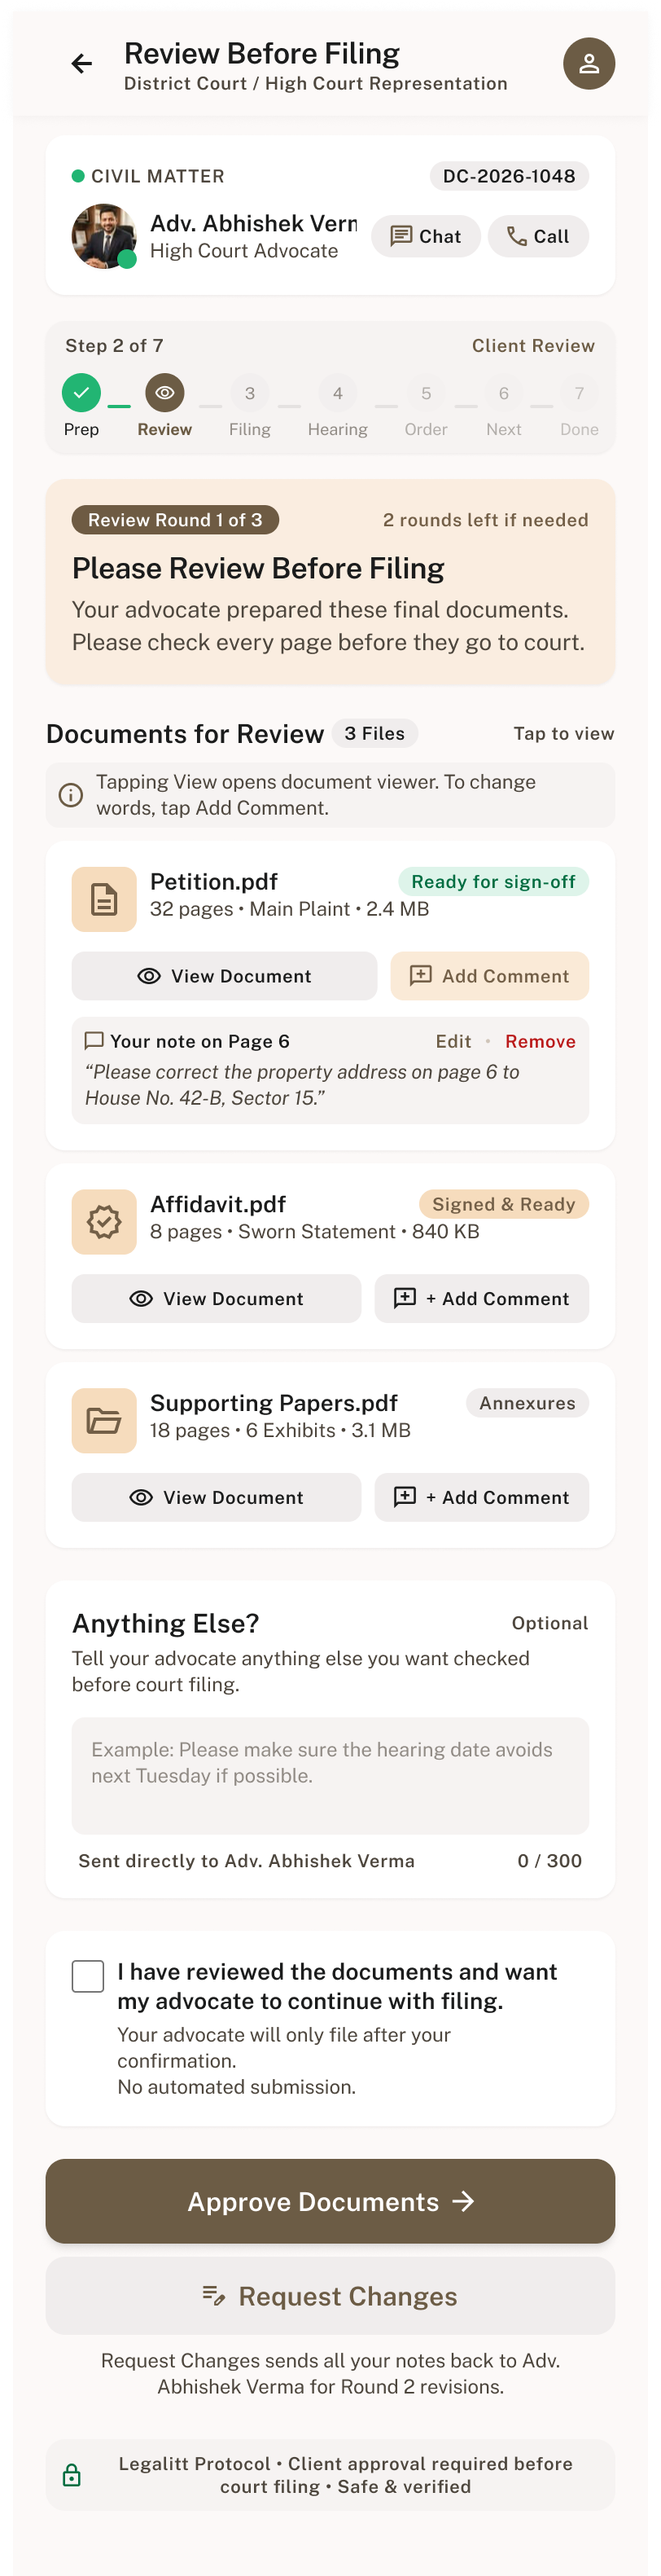
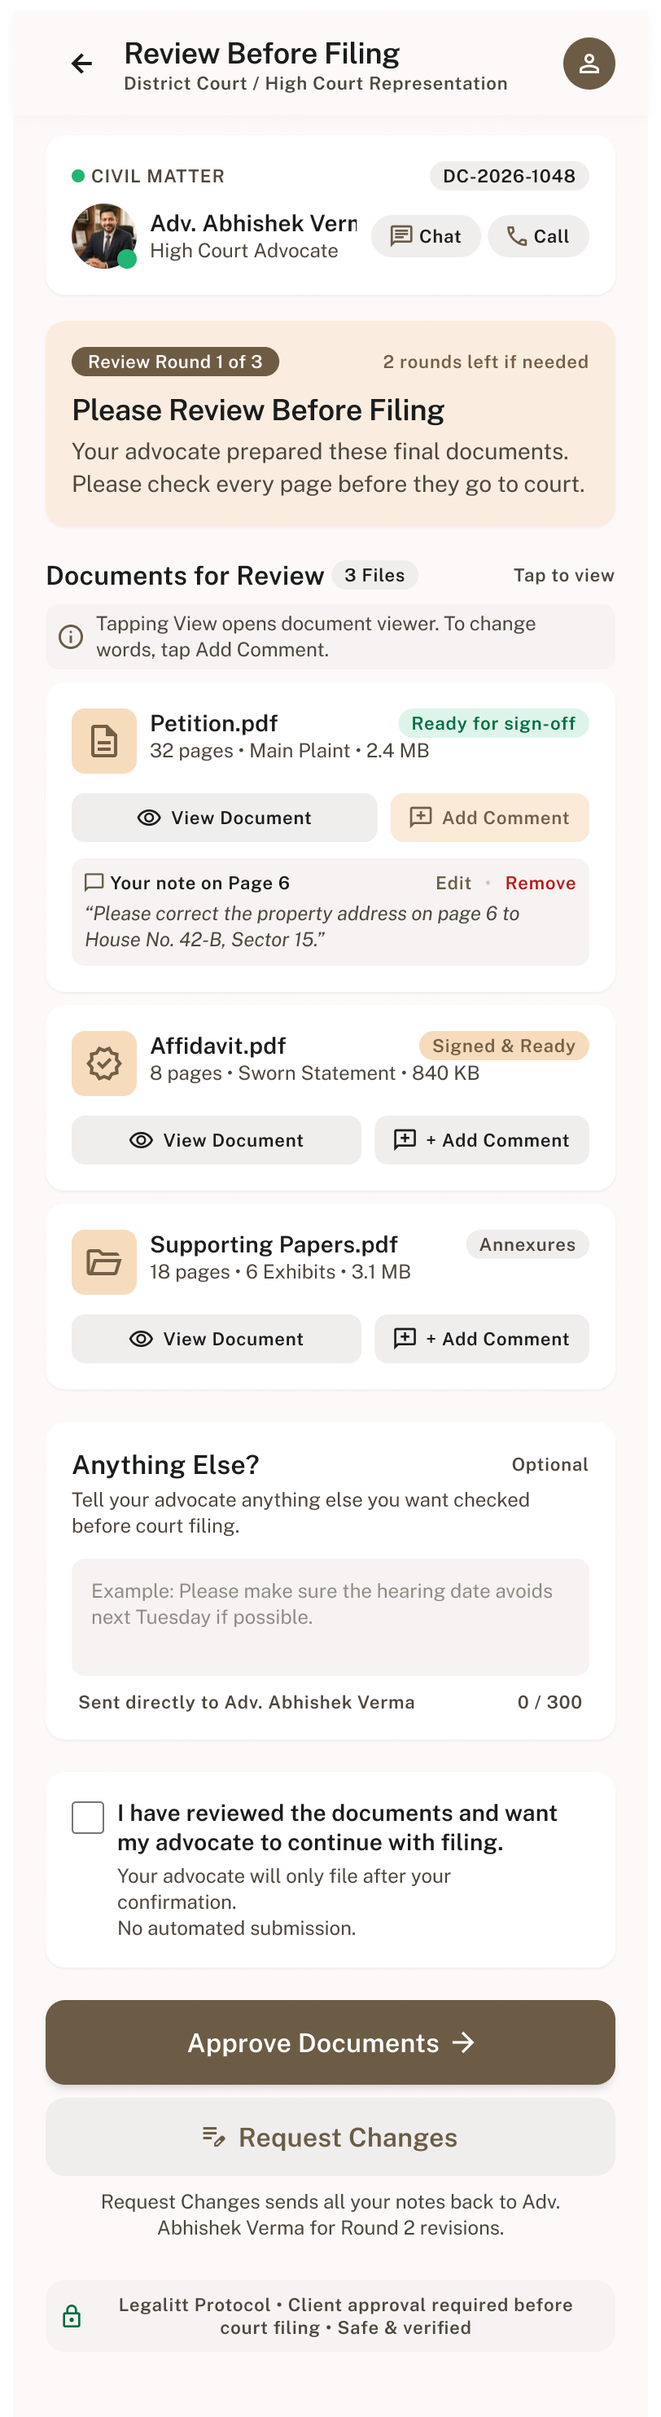
review before filing: replacement design/318 (stepper removed)
Replaces design/318; the old export moves to
design/archive/318-hcr-review-before-filing.png.

The replacement drops the "Step 2 of 7" stepper card and is otherwise
identical (pixel diff confirmed). Removed the stepper markup and styles,
its data fields (stepHead, stepMeta, steps) and its tokens. roundTop is
re-measured from the advocate card: 16pt. HC_REVIEW's conflict-6 note
now records that "Step 2 of 7" is gone.

Every OCR-matched line is within 7pt of the replacement export.
Route pixel diff, before → after: 33.6%, because everything below the
removed card moves up. Sweeps clean at 360/390/412.

diff --git a/app/services/high-court/review-filing.tsx b/app/services/high-court/review-filing.tsx
@@ -14,7 +14,7 @@ import {
   PenLine,
   Phone,
 } from 'lucide-react-native';
-import { Fragment, useState } from 'react';
+import { useState } from 'react';
 import { Pressable, ScrollView, StyleSheet, Text, TextInput, View } from 'react-native';
 import { useSafeAreaInsets } from 'react-native-safe-area-context';
 
@@ -98,32 +98,7 @@ export default function HighCourtReviewFilingScreen() {
           </View>
         </View>
 
-        <View style={styles.stepper}>
-          <View style={styles.between}>
-            <Text style={styles.stepHead}>{d.stepHead}</Text>
-            <Text style={[styles.stepHead, styles.stepMeta]}>{d.stepMeta}</Text>
-          </View>
-          <View style={styles.steps}>
-            {d.steps.map((label, i) => (
-              <Fragment key={label}>
-                {i > 0 && <View style={[styles.conn, i === 1 && styles.connDone]} />}
-                <View style={styles.stepItem}>
-                  <View style={[styles.stepDisc, i === 0 && styles.discDone, i === 1 && styles.discActive, i > 1 && styles.discWait]}>
-                    {i === 0 ? (
-                      <Check size={t.stepGlyph} color={ink.onBrand} strokeWidth={3} />
-                    ) : i === 1 ? (
-                      <Eye size={t.stepGlyph} color={ink.onBrand} strokeWidth={2.2} />
-                    ) : (
-                      <Text style={styles.stepNum}>{i + 1}</Text>
-                    )}
-                  </View>
-                  <Text style={[styles.stepLabel, i === 1 && styles.stepLabelActive, i > 1 && styles.stepLabelWait]}>{label}</Text>
-                </View>
-              </Fragment>
-            ))}
-          </View>
-        </View>
-
+        {/* The replacement design/318 drops the "Step 2 of 7" stepper card. */}
         <View style={styles.round}>
           <View style={styles.between}>
             <View style={styles.roundPill}>
@@ -332,36 +307,6 @@ const styles = StyleSheet.create({
     gap: t.pillGap - 1,
   },
   pillText: { fontFamily: font.appSemi, fontSize: t.pillSize, color: c.ink },
-
-  stepper: {
-    marginTop: t.stepTop,
-    marginLeft: t.cardLeft - t.padX,
-    borderRadius: t.cardRadius,
-    backgroundColor: c.panel,
-    paddingHorizontal: t.stepPadX,
-    paddingTop: t.stepPadTop,
-    paddingBottom: t.stepPadBottom,
-  },
-  stepHead: { fontFamily: font.appSemi, fontSize: t.stepHeadSize, lineHeight: t.stepHeadLineHeight, color: c.inkWarm },
-  stepMeta: { color: c.brownLift },
-  steps: { marginTop: t.stepsTop, flexDirection: 'row', alignItems: 'flex-start' },
-  stepItem: { alignItems: 'center' },
-  stepDisc: { width: t.stepDisc, height: t.stepDisc, borderRadius: t.stepDisc / 2, alignItems: 'center', justifyContent: 'center' },
-  discDone: { backgroundColor: status.active },
-  discActive: { backgroundColor: c.brown },
-  discWait: { backgroundColor: c.tileGrey },
-  stepNum: { fontFamily: font.appSemi, fontSize: t.stepNumSize, color: c.inkMuted },
-  conn: {
-    flex: 1,
-    height: t.stepConn,
-    marginTop: t.stepDisc / 2 - t.stepConn / 2,
-    marginHorizontal: t.stepConnGap,
-    backgroundColor: c.radioGrey,
-  },
-  connDone: { backgroundColor: status.active },
-  stepLabel: { marginTop: t.stepLabelTop, fontFamily: font.appBody, fontSize: t.stepLabelSize, lineHeight: t.stepLabelLineHeight, color: c.ink },
-  stepLabelActive: { fontFamily: font.appSemi, color: c.brownInk },
-  stepLabelWait: { color: c.inkMuted },
 
   round: {
     marginTop: t.roundTop,

diff --git a/data/highCourt.ts b/data/highCourt.ts
@@ -830,8 +830,8 @@ export const HC_DELIVERED = {
  * ⚠ CROSS-SERVICE: reached from the DISTRICT COURT court-fee payment (317), it
  * is subtitled "District Court / High Court Representation" — both services at
  * once — and carries DC-2026-1048 (CONFLICT 5) on a High Court screen.
- * ⚠ CONFLICT 6: "Step 2 of 7" (Prep → Done), alongside 313's "STAGE 2 OF 7"
- * with different stages.
+ * The replacement design/318 (14 Oct) removes the "Step 2 of 7" stepper card
+ * that the first export drew; conflict 6's "Step 2 of 7" no longer applies here.
  * ⚠ CONFLICT 4: "High Court Advocate" Abhishek Verma, introduced on 300 as a
  * District Court advocate. The drawing clips his name ("Adv. Abhishek Vern");
  * it is shown in full here.
@@ -846,9 +846,6 @@ export const HC_REVIEW = {
   role: 'High Court Advocate',
   chat: 'Chat',
   call: 'Call',
-  stepHead: 'Step 2 of 7',
-  stepMeta: 'Client Review',
-  steps: ['Prep', 'Review', 'Filing', 'Hearing', 'Order', 'Next', 'Done'],
   round: 'Review Round 1 of 3',
   roundMeta: '2 rounds left if needed',
   roundTitle: 'Please Review Before Filing',

diff --git a/constants/tokens/highCourt.ts b/constants/tokens/highCourt.ts
@@ -2175,23 +2175,8 @@ export const hcReview = {
   pillIcon: 15,
   pillSize: 12.5,
 
-  stepTop: 16,
-  stepPadX: 10,
-  stepPadTop: 6,
-  stepPadBottom: 8.5,
-  stepHeadSize: 12.2,
-  stepHeadLineHeight: 18,
-  stepsTop: 7,
-  stepDisc: 24,
-  stepGlyph: 12,
-  stepNumSize: 11,
-  stepConn: 2,
-  stepConnGap: 5,
-  stepLabelTop: 3,
-  stepLabelSize: 10.7,
-  stepLabelLineHeight: 16,
-
-  roundTop: 15,
+  /** From the advocate card — the replacement 318 has no stepper between them. */
+  roundTop: 16,
   roundPadTop: 17.5,
   roundPadBottom: 15,
   roundH: 16,
